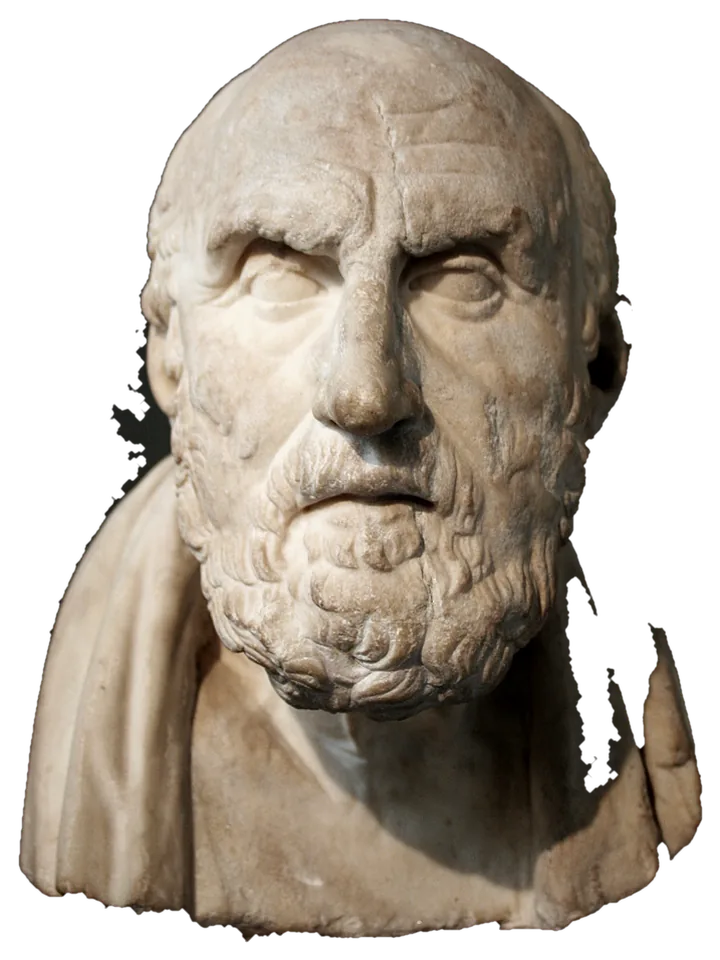
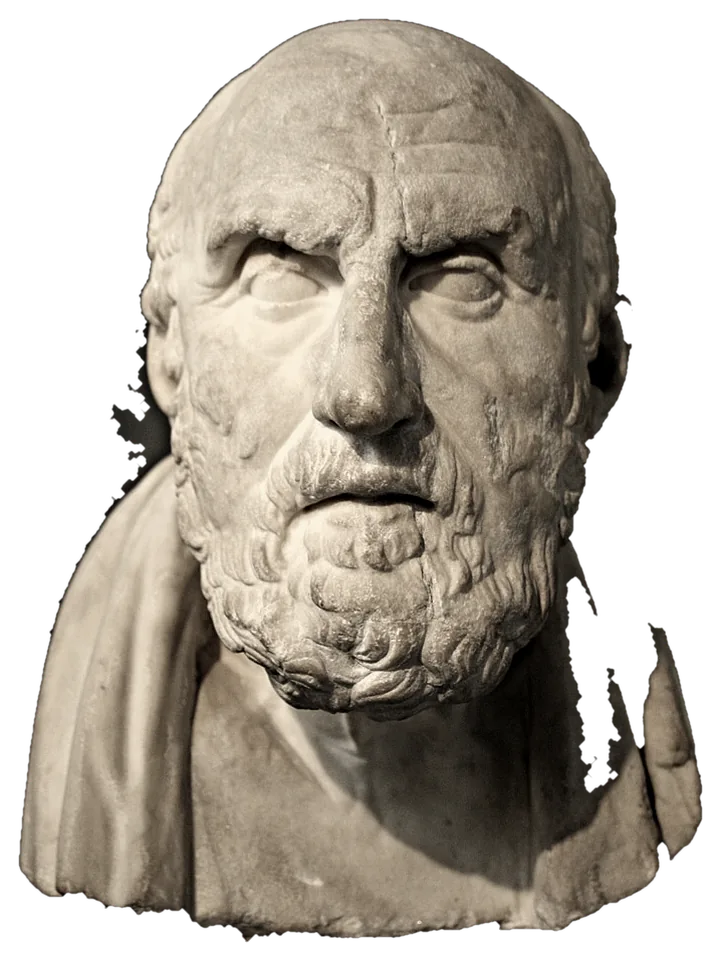
Стоя: цифровая реставрация бюстов
Зенону пересажен отбитый нос с мрамора бюста Сенеки, Клеанфу зеркально
восстановлена бровь (assets/repair.py, пуассоновское смешивание).
У всех бюстов сняты патина, пятна и цветные отсветы; у Марка Аврелия
исправлена вырезка груди. restore/PROMPTS.md — промпты для генеративной
реставрации и приёмка результатов через process.py restored.

diff --git a/js/data.js b/js/data.js
@@ -17,7 +17,7 @@ window.STOA_DATA = (function () {
       ],
       ideas: ['Цель жизни — жить согласно природе', 'Добродетель — единственное благо', 'Философия — сад: логика — ограда, физика — деревья, этика — плоды'],
       works: ['dl'],
-      photo: { src: 'assets/zeno.webp', w: 668, h: 960, kind: 'bust', hero: 1.0, credit: 'Глиптотека Ню Карлсберг, Копенгаген · фото Marie-Lan Nguyen, общественное достояние' }
+      photo: { src: 'assets/zeno.webp', w: 668, h: 960, kind: 'bust', hero: 1.0, credit: 'Глиптотека Ню Карлсберг, Копенгаген · фото Marie-Lan Nguyen, общественное достояние · цифровая реставрация: отбитый нос восстановлен по мрамору бюста Сенеки, как делали реставраторы XVIII века' }
     },
     {
       id: 'cleanthes', name: 'Клеанф из Асса', short: 'Клеанф', orig: 'Κλεάνθης ὁ Ἄσσιος',
@@ -32,7 +32,7 @@ window.STOA_DATA = (function () {
       ],
       ideas: ['Мир пронизан божественным разумом — логосом', 'Свобода — согласие с судьбой', 'Труд и упорство важнее одарённости'],
       works: ['hymn'],
-      photo: { src: 'assets/cleanthes.webp', w: 684, h: 960, kind: 'bust', hero: 0.8, credit: 'Голова, которую считают портретом Клеанфа. Глиптотека Ню Карлсберг · фото Marie-Lan Nguyen, общественное достояние' }
+      photo: { src: 'assets/cleanthes.webp', w: 684, h: 960, kind: 'bust', hero: 0.8, credit: 'Голова, которую считают портретом Клеанфа. Глиптотека Ню Карлсберг · фото Marie-Lan Nguyen, общественное достояние · цифровая реставрация: бровь восстановлена по уцелевшей стороне лица' }
     },
     {
       id: 'chrysippus', name: 'Хрисипп из Сол', short: 'Хрисипп', orig: 'Χρύσιππος ὁ Σολεύς',
@@ -47,7 +47,7 @@ window.STOA_DATA = (function () {
       ],
       ideas: ['Страсть — это ошибочное суждение', 'Судьба и свобода совместимы: цилиндр катится по своей природе', 'Логика — ограда сада философии'],
       works: ['dl', 'defato'],
-      photo: { src: 'assets/chrysippus.webp', w: 720, h: 960, kind: 'bust', hero: 0.96, credit: 'Римская копия греческого портрета III в. до н. э. · Wikimedia Commons, общественное достояние' }
+      photo: { src: 'assets/chrysippus.webp', w: 720, h: 960, kind: 'bust', hero: 0.96, credit: 'Римская копия греческого портрета III в. до н. э. · Wikimedia Commons, общественное достояние · цифровая реставрация: снята патина' }
     },
     {
       id: 'seneca', name: 'Луций Анней Сенека', short: 'Сенека', orig: 'Lucius Annaeus Seneca',
@@ -62,7 +62,7 @@ window.STOA_DATA = (function () {
       ],
       ideas: ['Время — единственное, что по-настоящему наше', 'Мы страдаем больше в воображении, чем в действительности', 'Философия учит делать, а не говорить'],
       works: ['letters', 'brevitate', 'ira', 'providentia', 'vitabeata', 'tranquillitate'],
-      photo: { src: 'assets/seneca.webp', w: 879, h: 960, kind: 'bust', hero: 0.88, credit: 'Двойная герма Сократа и Сенеки, Античное собрание Берлина · Wikimedia Commons, CC0' }
+      photo: { src: 'assets/seneca.webp', w: 879, h: 960, kind: 'bust', hero: 0.88, credit: 'Двойная герма Сократа и Сенеки, Античное собрание Берлина · Wikimedia Commons, CC0 · цифровая реставрация: сняты пятна' }
     },
     {
       id: 'musonius', name: 'Гай Мусоний Руф', short: 'Мусоний', orig: 'Gaius Musonius Rufus',
@@ -122,7 +122,7 @@ window.STOA_DATA = (function () {
       ],
       ideas: ['Препятствие становится путём', 'Каждое дело — как последнее', 'Люди рождены друг для друга'],
       works: ['meditations'],
-      photo: { src: 'assets/marcus.webp', w: 915, h: 1500, kind: 'bust', hero: 1.12, credit: 'Бюст из Лувра, Париж · фото Gary Todd, CC0' }
+      photo: { src: 'assets/marcus.webp', w: 919, h: 1500, kind: 'bust', hero: 1.12, credit: 'Бюст из Лувра, Париж · фото Gary Todd, CC0 · цифровая реставрация: сняты патина и отсветы' }
     }
   ];
 

diff --git a/assets/process.py b/assets/process.py
@@ -21,8 +21,10 @@ def border_connected(bgmask):
     return np.isin(lab, edge)
 
 
-def cutout(rgb, bg, close=3, erode=2, soft=1.4):
+def cutout(rgb, bg, close=3, erode=2, soft=1.4, opening=0):
     fg = ~border_connected(bg)
+    if opening:
+        fg = ndi.binary_opening(fg, iterations=opening)
     fg = ndi.binary_closing(fg, iterations=close)
     fg = ndi.binary_fill_holes(fg)
     lab, n = ndi.label(fg)
@@ -33,6 +35,46 @@ def cutout(rgb, bg, close=3, erode=2, soft=1.4):
     a = ndi.gaussian_filter(fg.astype(np.float32), soft)
     a = np.clip((a - 0.5) * 1.6 + 0.5, 0, 1)
     return a
+
+
+def gauss(x, s):
+    return ndi.gaussian_filter(x, s)
+
+
+def freshen(rgb, spots=1.0, clarity=0.3, keep_color=0.24, tint=(1.0, 0.972, 0.928)):
+    """Мрамор «как только из мастерской»: без патины, пятен и цветных отсветов, с ясной пластикой."""
+    f = rgb.astype(np.float32) / 255.0
+    W3 = np.array([0.299, 0.587, 0.114], np.float32)
+    L0 = f @ W3
+    L = L0.copy()
+    med = ndi.median_filter(L, size=7)
+    m1, m2 = gauss(L, 3.0), gauss(L * L, 3.0)
+    smooth = np.clip(1.0 - np.sqrt(np.clip(m2 - m1 * m1, 0, None)) / 0.055, 0, 1)
+    dark = np.clip((med - L - 0.02) / 0.05, 0, 1)
+    light = np.clip((L - med - 0.05) / 0.06, 0, 1) * 0.5
+    L = L + (med - L) * np.maximum(dark, light) * smooth * spots
+    lo, mid = gauss(L, 28.0), gauss(L, 6.0)
+    L = L + (lo - mid) * np.clip((lo - mid - 0.015) / 0.06, 0, 1) * gauss(smooth, 6.0) * 0.6 * spots
+    L = L + clarity * (L - gauss(L, 16.0))
+    L = L + 0.3 * (L - gauss(L, 1.0))
+    out = L[..., None] * np.array(tint, np.float32) + (f - L0[..., None]) * keep_color
+    return np.clip(out * 255, 0, 255).astype(np.int32)
+
+
+def rowfill(a, frac=0.7):
+    """Грудь бюста сплошная: заливаем строки, где силуэт уже широкий (тени не должны «выгрызать» камень)."""
+    b = a > 0.5
+    wid = b.sum(1)
+    a = a.copy()
+    for y in np.where(wid > frac * wid.max())[0]:
+        xs = np.where(b[y])[0]
+        a[y, xs[0]:xs[-1] + 1] = 1.0
+    return a
+
+
+def source(name, fallback):
+    p = os.path.join(SRC, name + '-restored.jpg')
+    return p if os.path.exists(p) else os.path.join(SRC, fallback)
 
 
 def grade(rgb, alpha=None, sat=0.55, lo=0.05, hi=0.95, warm=(1.0, 0.975, 0.93)):
@@ -83,22 +125,24 @@ if 'marcus' in jobs:
     im = load('marcus.jpg')
     rgb = arr(im)[:2235]
     R, G, B = rgb[..., 0], rgb[..., 1], rgb[..., 2]
-    bg = (G / (R + 1.0) < 0.68) | (R + G + B < 90)
-    a = cutout(rgb, bg, close=4, erode=2, soft=1.6)
+    mx, mn = rgb.max(-1), rgb.min(-1)
+    sat = (mx - mn) / (mx + 1.0)
+    bg = ((G / (R + 1.0) < 0.6) & (sat > 0.58)) | (R + G + B < 90)
+    a = cutout(rgb, bg, close=4, erode=2, soft=1.6, opening=3)
     a[-3:] = 0
-    out = save_rgba(grade(rgb, a, sat=0.5), a, 'marcus.webp', 1500)
+    out = save_rgba(grade(freshen(rgb), a, sat=0.85), a, 'marcus.webp', 1500)
     preview(out, 'marcus')
 
 if 'zeno' in jobs or 'cleanthes' in jobs:
     for nm, cut in (('zeno', 1810), ('cleanthes', 1440)):
         if nm not in jobs:
             continue
-        rgb = arr(load(nm + '.jpg'))[:cut]
+        rgb = arr(Image.open(source(nm, nm + '.jpg')))[:cut]
         R, G, B = rgb[..., 0], rgb[..., 1], rgb[..., 2]
         bg = ((G - R) > -6) & ((B - R) > -14) & ((R + G + B) < 600)
         a = cutout(rgb, bg, close=4, erode=2, soft=1.4)
         a[-3:] = 0
-        out = save_rgba(grade(rgb, a), a, nm + '.webp', 960)
+        out = save_rgba(grade(freshen(rgb), a, sat=0.85), a, nm + '.webp', 960)
         preview(out, nm)
 
 if 'chrysippus' in jobs:
@@ -107,7 +151,7 @@ if 'chrysippus' in jobs:
     bg = lum < 62
     a = cutout(rgb, bg, close=3, erode=1, soft=1.0)
     a[-2:] = 0
-    out = save_rgba(grade(rgb, a), a, 'chrysippus.webp', 960)
+    out = save_rgba(grade(freshen(rgb), a, sat=0.85), a, 'chrysippus.webp', 960)
     preview(out, 'chrysippus')
 
 if 'seneca' in jobs:
@@ -116,7 +160,7 @@ if 'seneca' in jobs:
     px = px[:int(px.shape[0] * 0.9)]
     a = px[..., 3].astype(np.float32) / 255.0
     a = np.clip((ndi.gaussian_filter(a, 0.8) - 0.5) * 1.4 + 0.5, 0, 1)
-    out = save_rgba(grade(px[..., :3], a), a, 'seneca.webp', 960)
+    out = save_rgba(grade(freshen(px[..., :3]), a, sat=0.85), a, 'seneca.webp', 960)
     preview(out, 'seneca')
 
 if 'head' in jobs:
@@ -139,6 +183,36 @@ if 'epictetus' in jobs:
     img = img.resize((round(img.width * 1100 / img.height), 1100), Image.LANCZOS)
     img.save(OUT + 'epictetus.webp', 'WEBP', quality=80, method=6)
     print('epictetus.webp', img.size)
+
+if 'restored' in jobs:
+    # Приёмка реставраций: restore/out/<id>.png|jpg|webp на ровном фоне → assets/<id>.webp
+    import glob, json
+    root = os.path.join(os.path.dirname(HERE), 'restore', 'out')
+    report = {}
+    for path in sorted(glob.glob(os.path.join(root, '*'))):
+        name, ext = os.path.splitext(os.path.basename(path))
+        if ext.lower() not in ('.png', '.jpg', '.jpeg', '.webp'):
+            continue
+        im = Image.open(path)
+        if im.mode == 'RGBA' and np.asarray(im)[..., 3].min() < 250:
+            px = np.asarray(im).astype(np.int32)
+            rgb, a = px[..., :3], px[..., 3].astype(np.float32) / 255.0
+        else:
+            rgb = arr(im)
+            border = np.concatenate([rgb[:6].reshape(-1, 3), rgb[-6:].reshape(-1, 3), rgb[:, :6].reshape(-1, 3), rgb[:, -6:].reshape(-1, 3)])
+            c = np.median(border, axis=0)
+            dist = np.sqrt(((rgb - c) ** 2 * np.array([0.3, 0.59, 0.11])).sum(-1))
+            bdist = np.sqrt(((border - c) ** 2 * np.array([0.3, 0.59, 0.11])).sum(-1))
+            thr = float(np.clip(np.percentile(bdist, 75) * 3.0, 10.0, 40.0))
+            a = cutout(rgb, dist < thr, close=3, erode=1, soft=1.2)
+            if (a > 0.5).sum() < 0.05 * a.size:
+                print(name + ': фон не отделился, кладу без вырезки')
+                a = np.ones(rgb.shape[:2], np.float32)
+            a = rowfill(a, 0.72)
+        out = save_rgba(grade(rgb, a, sat=0.85), a, name + '.webp', 1400)
+        preview(out, name)
+        report[name] = out.size
+    print(json.dumps(report))
 
 if 'stoa' in jobs:
     im = load('stoa.jpg').convert('RGB').resize((1600, 1200), Image.LANCZOS)

diff --git a/assets/repair.py b/assets/repair.py
@@ -1,0 +1,124 @@
+"""Цифровая реставрация бюстов на фото.
+
+Недостающее берётся с настоящего мрамора, как у реставраторов XVI–XVIII веков:
+отбитый нос пересаживается с другого бюста (очищенный от патины и подогнанный по тону),
+сколотая сторона лица восстанавливается зеркально с уцелевшей. Всё вклеивается
+пуассоновским смешиванием, чтобы не было шва.
+Запуск: python3 assets/repair.py [zeno cleanthes]
+Результат: assets/src/<id>-restored.jpg, дальше его берёт process.py.
+"""
+import os
+import sys
+import numpy as np
+from PIL import Image
+from scipy import ndimage as ndi
+from scipy.sparse import lil_matrix
+from scipy.sparse.linalg import spsolve
+
+HERE = os.path.dirname(os.path.abspath(__file__))
+
+def poly_mask(shape, pts):
+    from PIL import ImageDraw
+    m = Image.new('L', (shape[1], shape[0]), 0)
+    ImageDraw.Draw(m).polygon(pts, fill=255)
+    return np.asarray(m) > 127
+
+
+
+def poisson(target, source, mask):
+    """Градиентное смешивание: внутри маски берём перепады source, на краю — target."""
+    ys, xs = np.nonzero(mask)
+    idx = -np.ones(mask.shape, np.int64)
+    idx[ys, xs] = np.arange(len(ys))
+    N = len(ys)
+    A = lil_matrix((N, N))
+    out = target.copy()
+    for k, (y, x) in enumerate(zip(ys, xs)):
+        A[k, k] = 4
+    for c in range(3):
+        b = np.zeros(N)
+        for k, (y, x) in enumerate(zip(ys, xs)):
+            lap = 4 * source[y, x, c]
+            for dy, dx in ((1, 0), (-1, 0), (0, 1), (0, -1)):
+                yy, xx = y + dy, x + dx
+                lap -= source[yy, xx, c]
+                if mask[yy, xx]:
+                    if c == 0:
+                        A[k, idx[yy, xx]] = -1
+                else:
+                    b[k] += target[yy, xx, c]
+            b[k] += lap
+        if c == 0:
+            A = A.tocsr()
+        out[ys, xs, c] = spsolve(A, b)
+    return out
+
+
+
+# Реставрация по образцу мастеров XVI–XVIII вв.: недостающее берётся с настоящего мрамора —
+# нос пересаживается с другого бюста, сколотая сторона лица восстанавливается зеркально.
+RESTORE = {
+    'zeno': dict(src='zeno.jpg', cheek=(500, 585, 60, 60), ops=[
+        dict(kind='donor', donor='seneca.png', t_axis=(663, 731), d_axis=(650, 582), scale=(0.9, 1.0),
+             region=[(618, 540), (708, 540), (730, 600), (746, 660), (744, 712), (732, 742), (590, 742), (576, 700), (584, 630)]),
+        dict(kind='mirror', axis=663,
+             region=[(700, 535), (760, 545), (796, 600), (800, 690), (752, 700), (734, 640), (712, 585)]),
+    ]),
+    'cleanthes': dict(src='cleanthes.jpg', cheek=(420, 760, 60, 60), ops=[
+        dict(kind='mirror', axis=606,
+             region=[(330, 420), (470, 375), (560, 420), (560, 560), (430, 585), (330, 540)]),
+    ]),
+}
+
+
+def clean_donor(d, albedo):
+    """Убирает пятна патины с донора и перекрашивает его в тон мрамора получателя."""
+    L = d @ np.array([0.299, 0.587, 0.114], np.float32)
+    med = ndi.median_filter(L, size=9)
+    m1, m2 = ndi.gaussian_filter(L, 3), ndi.gaussian_filter(L * L, 3)
+    std = np.sqrt(np.clip(m2 - m1 * m1, 0, None))
+    smooth = np.clip(1 - std / 14.0, 0, 1)
+    dark = np.clip((med - L - 4) / 12, 0, 1)
+    L = L + (med - L) * dark * smooth
+    lo, mid = ndi.gaussian_filter(L, 24), ndi.gaussian_filter(L, 5)
+    L = L + (lo - mid) * np.clip((lo - mid - 3) / 14, 0, 1) * 0.7
+    knee = np.percentile(L, 80)
+    L = np.where(L > knee, knee + (L - knee) * 0.35, L)
+    tone = albedo / max(1e-3, albedo @ np.array([0.299, 0.587, 0.114]))
+    return L[..., None] * tone[None, None, :]
+
+
+def warp(img, sx, sy):
+    return np.dstack([ndi.map_coordinates(img[..., c], [sy, sx], order=1, mode='nearest') for c in range(3)])
+
+
+def repair(key):
+    p = RESTORE[key]
+    img = np.asarray(Image.open(os.path.join(HERE, 'src', p['src'])).convert('RGB')).astype(np.float32)
+    H, W = img.shape[:2]
+    x0, y0, cw, ch = p['cheek']
+    albedo = img[y0:y0 + ch, x0:x0 + cw].reshape(-1, 3).mean(0)
+    yy, xx = np.mgrid[0:H, 0:W].astype(np.float32)
+    for op in p['ops']:
+        region = poly_mask((H, W), op['region'])
+        if op['kind'] == 'donor':
+            don = np.asarray(Image.open(os.path.join(HERE, 'src', op['donor'])).convert('RGB')).astype(np.float32)
+            don = clean_donor(don, albedo)
+            (tx, ty), (dx, dy), (scx, scy) = op['t_axis'], op['d_axis'], op['scale']
+            src = warp(don, (xx - tx) / scx + dx, (yy - ty) / scy + dy)
+            form = op.get('form', 1.0)
+            if form < 1.0:
+                sb, tb = ndi.gaussian_filter(src, (14, 14, 0)), ndi.gaussian_filter(img, (14, 14, 0))
+                src = tb + (sb - tb) * form + (src - sb)
+        else:
+            src = warp(img, 2 * op['axis'] - xx, yy)
+        img = poisson(img, src, region)
+    out = np.clip(img, 0, 255).astype(np.uint8)
+    path = os.path.join(HERE, 'src', key + '-restored.jpg')
+    Image.fromarray(out).save(path, quality=95)
+    print(path)
+
+
+if __name__ == '__main__':
+    for k in (sys.argv[1:] or RESTORE.keys()):
+        repair(k)

diff --git a/restore/PROMPTS.md b/restore/PROMPTS.md
@@ -1,0 +1,37 @@
+# Реставрация бюстов: «как будто только что изваяли»
+
+Генеративная модель дорисовывает утраченное (носы, сколы, трещины) по образу оригинала и сохраняет лицо, причёску и ракурс. Лучше всего это получается в **ChatGPT** (генерация изображений) и **Google Gemini** (редактирование фото).
+
+## Как сделать
+
+1. Откройте ChatGPT или Gemini и приложите исходное фото из `assets/src/` (имя файла указано у каждого бюста).
+2. Вставьте общий промпт, подставив в него строку «Что восстановить».
+3. Если лицо «уплыло» и стало непохожим, попросите: *Keep the face exactly as in the reference, only repair the damage.*
+4. Сохраните результат в `restore/out/` под именем из скобок, например `restore/out/zeno.png`.
+5. Скажите мне. Я выполню `python3 assets/process.py restored`, вырежу фон, тонирую и поставлю бюсты на сайт.
+
+## Общий промпт
+
+```
+Use the attached photo as the exact reference. Digitally restore this ancient marble portrait bust so it looks as if the sculptor had just finished it: complete and undamaged. {ЧТО ВОССТАНОВИТЬ} Remove all stains, patina, discoloration, cracks and chips. Fresh, softly polished white Carrara marble with very subtle grey veining. Keep the identity exactly: same facial features, proportions, expression, hairstyle, beard, head angle, framing and composition as the reference. Photorealistic museum photograph, soft diffused daylight from the upper left, gentle shadows, ultra-detailed carving, sharp focus. Plain flat uniform light-grey background (#B4B0A8), nothing else in the frame, no label, no text, no watermark. Vertical 3:4.
+```
+
+## Что восстановить
+
+| Бюст | Исходник | Сохранить как | Что восстановить |
+|---|---|---|---|
+| Марк Аврелий | `assets/src/marcus.jpg` | `marcus.png` | `The bust is almost intact: blend the old repair seam on the nose tip, remove the reddish reflections from the wall, keep every curl of the hair and beard.` |
+| Зенон Китийский | `assets/src/zeno.jpg` | `zeno.png` | `Rebuild the missing nose as a straight Greek nose that continues the brow line, repair the chipped forehead and beard. Do not add a pedestal.` |
+| Клеанф | `assets/src/cleanthes.jpg` | `cleanthes.png` | `The head is heavily damaged: rebuild the nose, the eyes and eyelids, the cheeks and the mouth of an old man with deep wrinkles and a full beard, add the neck and a simple draped bust below, keep the bald crown.` |
+| Хрисипп | `assets/src/chrysippus.jpg` | `chrysippus.png` | `Rebuild the broken nose tip and chipped eyebrows, keep the furrowed brow, the balding head, the beard and the draped cloak.` |
+| Сенека | `assets/src/seneca.png` | `seneca.png` | `Repair the chipped nose and the worn surface, keep the carved ancient inscription SENECA on the chest.` |
+
+## По желанию: воображаемые портреты
+
+Подлинных портретов этих мыслителей не сохранилось. Если их сгенерировать, на сайте я подпишу их как воображаемые.
+
+| Мыслитель | Опора | Сохранить как | Промпт вместо «что восстановить» |
+|---|---|---|---|
+| Эпиктет | `assets/src/epictetus.jpg` (гравюра 1715 г.) | `epictetus.png` | `Create a marble portrait bust of the elderly Greek philosopher shown in this engraving: curly hair, long full beard, thoughtful face, simple tunic.` (из общего промпта уберите «Keep the identity… composition») |
+| Мусоний Руф | без исходника | `musonius.png` | `A Roman Stoic philosopher of the 1st century AD, middle-aged, short curly beard, calm stern face, toga.` |
+| Иерокл | без исходника | `hierocles.png` | `A Greek Stoic philosopher of the 2nd century AD, curly hair, medium beard, kind attentive face, himation.` |
